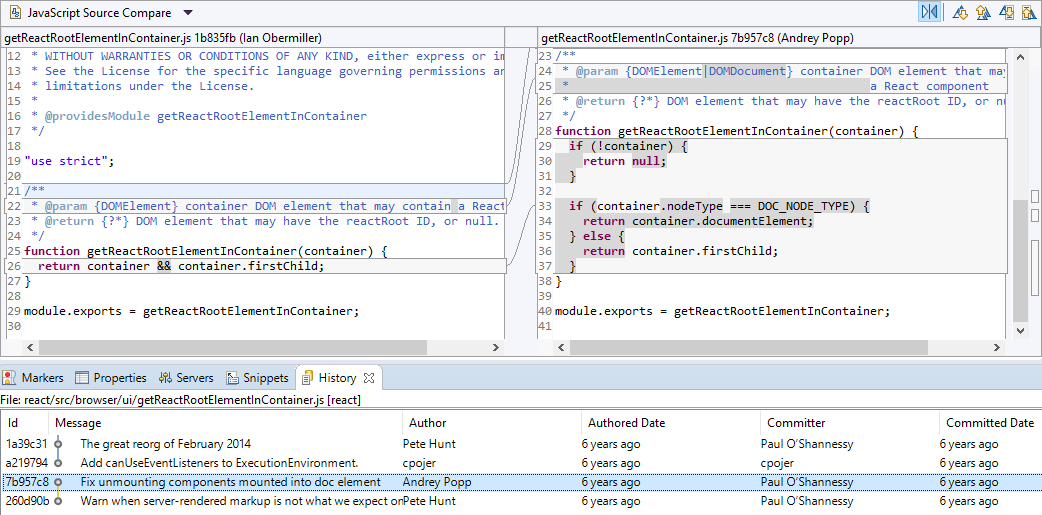
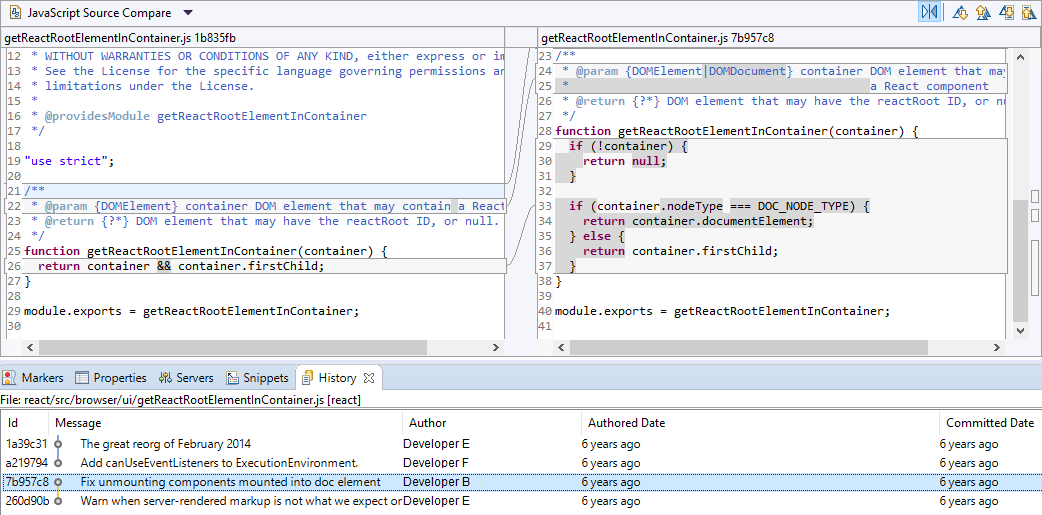
Correções das revisões.

diff --git a/theses-ch5.tex b/theses-ch5.tex
@@ -1,9 +1,9 @@
 \chapter{Practical Applications of Refactoring Detection}
 \label{ChPracticalApplications}
 
-Throughout this thesis we discussed tools to mine refactorings from version histories and empirical studies that benefit from such techniques. In this chapter we discuss three practical applications of such tools.
+Throughout this thesis we discussed tools to mine refactorings from version histories and empirical studies that benefit from such techniques. In this chapter, we discuss three practical applications of such tools.
 We do not intend to thoroughly discuss all possible applications, but rather to exemplify that some relevant problems faced by development teams can be tackled with the help of such tools.
-Particularly, RefDiff's multi-language design is an important advantage for the practical applications described below, as software projects are developed using different programming languages.
+Particularly, RefDiff's multi-language design is an important advantage for the practical applications described in this chapter, as software projects are developed using different programming languages.
 
 
 \section{Refactoring-aware Diff}
@@ -18,18 +18,26 @@ increases the odds that your change will collide with someone
 else's change.}}\margin
 
 In fact, version control systems are usually sensitive to rename and move refactoring,
-which makes it hard for developers to understand code changes in some scenarios. 
-As a concrete example, consider the code changes presented in Figure~\ref{FigRwDiff1}, which are taken from the \url{intellij-community} repository. In this figure, we present the code diff between two changed files. In the first one, \texttt{RunContentManagerImpl.java}, a large code block was removed, whilst in the second file (\texttt{ExecutionUtil.java}) a large code block was added. With a thoroughly analysis, we can note the the code removed from \texttt{RunContentManagerImpl.java} was actually moved to \texttt{ExecutionUtil.java}, i.e, the method \texttt{getLiveIndicator} was moved.
-However this is not immediately obvious to a developer reviewing these changes, specially considering that there might be many other changed files in the commit. Moreover, although one can identify with some effort that the method \texttt{getLiveIndicator} has been moved, it will be much more difficult to identify small changes made to its body in this visualization.
+which makes it hard for developers to understand code changes, specially when refactorings are applied interleaved with other modifications in the system.
+
 
 %intellij-community ce5f9ff
-\begin{figure}[htbp]
+\begin{figure}[htpb]
 \centering
 \includegraphics[width=\linewidth]{img/c1.png}
 \caption{Typical diff visualization of a code change containing a moved method}
 \label{FigRwDiff1}
 \end{figure}
 
+As a concrete example, consider the code changes presented in Figure~\ref{FigRwDiff1}, which are taken from the \url{intellij-community} repository. In this figure, we present the code diff between two changed files. In the first one, \texttt{RunContentManagerImpl.java}, a large code block was removed, whilst in the second file (\texttt{ExecutionUtil.java}) a large code block was added. With a thoroughly analysis, we can note that the code removed from \texttt{RunContentManagerImpl.java} was actually moved to \texttt{ExecutionUtil.java}, i.e., the method \texttt{getLiveIndicator} was moved.
+However, this is not immediately obvious to a developer reviewing these changes, specially considering that there might be many other changed files in the commit. Moreover, although one can identify with some effort that the method \texttt{getLiveIndicator} has been moved, it will be much more difficult to identify small changes made to its body in this visualization.
+
+\begin{figure}[bp]
+\centering
+\includegraphics[width=\linewidth]{img/c2.png}
+\caption{Diff visualization focused on the moved method}
+\label{FigRwDiff2}
+\end{figure}
 
 In contrast, consider the diff visualization presented in Figure~\ref{FigRwDiff2}. In this case, the diff is focused in the method that was moved, \texttt{getLiveIndicator}, before and after the change. We can clearly see that some changes have been made to the body of \texttt{getLiveIndicator}. Specifically, the annotations \texttt{@Nullable} and \texttt{@SuppressWarnings} were introduced, a new local variable \texttt{iSize} was declared, and the expression passed as the first argument to the \texttt{Ellipse2D.Double} constructor was changed.
 All these changes are very hard to note in a traditional diff visualization, such as the one from Figure~\ref{FigRwDiff1}, but are easily discernible when we present the moved method compared with its counterpart.
@@ -37,48 +45,43 @@ Other refactoring types might benefit from such idea as well.
 As a second example, it would also be convenient to highlight the differences between an extracted method and its originating code. This way, it would become easier to identify new statements added.
 A similar reasoning can be applied to Move Class, Inline Method, and other refactoring types.
 
-\begin{figure}[htbp]
-\centering
-\includegraphics[width=\linewidth]{img/c2.png}
-\caption{Diff visualization focused on the moved method}
-\label{FigRwDiff2}
-\end{figure}
 
-Thus, we can improve diff visualization using the information about the refactorings applied in a commit.
-We expect that such refactoring-aware diff visualization solution would improve developers' ability to discern and understand code changes in the presence of refactorings, enabling them to concentrate on changes of behavior rather than on code modifications resulting from refactorings.
+
+Thus, we can improve diff visualization using the information about the refactorings detected in commits, using a tool such as RefDiff.
+We expect that such refactoring-aware diff visualization solution would improve developers' ability to discern and understand code changes in the presence of refactorings, enabling them to concentrate on behavioral changes rather than on code modifications resulting from refactorings.
 
 
 \section{Tracking changes of a code element}
 \label{SecAppTrackChanges}
 
-Although refactoring is very important to maintain a software system, it can make it harder to track code changes in the history, specially in the method/function level.
+Although refactoring is very important to maintain a software system, it can make it harder to track code changes in the history, specially at the method/function level.
 % https://github.com/facebook/react/commit/63aa7259b9f48886af545afcc06c29acf225b05f
 For example, consider the \texttt{getReactRootElementInContainer} function from React project, depicted in Figure~\ref{FigGitBlameReact}.
-\begin{figure}[htbp]
+\begin{figure}[b]
 \centering
 \includegraphics[width=\linewidth]{img/git-blame-react.png}
-\caption{\textit{git-blame} visualization of the \texttt{ReactMount.js} file from React project, showing that function \texttt{getReactRootElementInContainer} was last modified by Mert Kahyao\u{g}lu}
+\caption{\textit{git-blame} visualization of the \texttt{ReactMount.js} file from React project, showing that function \texttt{getReactRootElementInContainer} was last modified by Developer~A}
 \label{FigGitBlameReact}
 \end{figure}
-Suppose one is investigating the history of that function to find out who introduced the conditional statement in lines 85--89. Developers typically use the \textit{git-blame} tool for such tasks, as it shows what revision and author last modified each line of code of a file. However, although the \textit{git-blame} output shows that Mert Kahyao\u{g}lu was the last developer that modified the lines of code within \texttt{getReactRootElementInContainer}, this information may mislead one to think that he is the author of the function.
-In fact, a deeper analysis of the history reveals that Mert Kahyao\u{g}lu actually moved the function from file \texttt{getReactRootElementInContainer.js} to \texttt{ReactMount.js}.
-Thus, to find the actual author of those lines of code, one should inspect the history of changes of the original file of the function. Figure~\ref{FigGitBlameReactActualAuthor} shows that the conditional in lines 85--89 was actually introduced by Andrey Popp.
+Suppose one is investigating the history of that function to find out who introduced the conditional statement in lines 85--89. Developers typically use the \textit{git-blame} tool for such tasks, as it shows what revision and author last modified each line of code of a file. However, although the \textit{git-blame} output shows that Developer~A was the last developer who modified the lines of code within \texttt{getReactRootElementInContainer}, this information may mislead one to think that he is the author of the function.
+In fact, a deeper analysis of the history reveals that Developer~A actually moved the function from file \texttt{getReactRootElementInContainer.js} to \texttt{ReactMount.js}.
+Thus, to find the actual author of those lines of code, one should inspect the history of changes of the original file of the function. Figure~\ref{FigGitBlameReactActualAuthor} shows that the conditional in lines 85--89 was actually introduced by Developer~B.
 
 
 \begin{figure}[htbp]
 \centering
 \includegraphics[width=\linewidth]{img/git-blame-react-actual-author.png}
-\caption{Diff visualization of the commit in witch the conditional inside function \texttt{getReactRootElementInContainer} was introduced, showing that the actual author is Andrey Popp}
+\caption{Diff visualization of the commit in witch the conditional inside function \texttt{getReactRootElementInContainer} was introduced, showing that the actual author is Developer~B}
 \label{FigGitBlameReactActualAuthor}
 \end{figure}
 
 In summary, in the example above, the \textit{Move Function} refactoring split the history of \texttt{getReactRootElementInContainer}, making it harder to trace back the author of each line of code.
 The frequency in which such situations occur makes this problem even more important. \cite{icse2018} studied the extent in which MSR approaches that relies on tracking
 the changes along all versions of each individual methods (or classes) are affected by refactorings, i.e., a method rename or move can be misinterpreted as the disappearance of a method and the appearance of a brand new one.
-The authors found that between 10 and 21\% of method-level changes and 2 and 15\% of class-level changes may introduce a discontinuity in their histories.
+The authors found that between 10\% and 21\% of method-level changes and 2\% and 15\% of class-level changes may introduce a discontinuity in their histories.
 Moreover, 25\% of the code elements have at least one discontinuity in their histories.
 
-For these reasons, this problem is a potential application for refactoring detection techniques. If we know the refactorings applied in the system, we can keep track of all moves/renames applied to each code element and reconstruct its full history.
+For these reasons, this problem is a potential application of refactoring detection techniques. If we know the refactorings applied in the system, we can keep track of all moves/renames applied to each code element and reconstruct its full history.
 Moreover, this would enable us to provide an improved \textit{git-blame} that shows the last modification of each line of code but is not susceptible to code movement.
 
 
@@ -90,14 +93,14 @@ Another challenge developers face when refactoring, also reported by \cite{kim-t
 In software projects, usually several developers work in parallel fixing bugs and adding features to the system.
 Thus, the different changes introduced by each developer should be integrated together in the same code base, in a process called as merging code.
 In many cases, merging can be done automatically by version control systems, which provide algorithms for such task.
-However, when different changes are made to the same lines of code, automatic algorithms report a merge conflict, and merge must be done manually.
-High-level refactoring operations amplify the odds that merge conflict occurs, because they usually involves movement of large chunks of code.
+However, when different changes are made to the same lines of code, these algorithms report a conflict, and merge must be done manually.
+High-level refactoring operations amplify the odds that merge conflict occurs, because they usually involve movement of large chunks of code.
 In fact, a recent study on the relationship between refactoring and merge conflicts shows that refactoring operations are involved in at least 22\% of merge conflicts~\citep{mahmoudi2019refactorings}.
 
 \begin{figure}[htbp]
 \centering
 \includegraphics[width=\linewidth]{img/merge-ex-diff1.png}
-\caption{Hypotetical change made by fist developer: Test if \texttt{length} is zero}
+\caption{Hypotetical change made by first developer: Test if \texttt{length} is zero}
 \label{FigMergeExDiff1}
 \end{figure}
 
@@ -124,7 +127,11 @@ Thus, large-scale refactorings have the potential to make merging changes extrem
 
 However, we can improve merging algorithms if we know the refactorings applied to the code.
 For example, \cite{dig2008effective} proposed a refactoring-aware version control system that is able to resolve merge conflicts caused by refactorings using the following strategy: it identifies the refactorings applied between revisions, undo the refactorings, apply regular textual merge algorithms, and finally apply the refactorings again.
-\cite{shen2019intellimerge} also propose a refactoring-aware merging technique for the same purpose. Their tool, called IntelliMerge, relies on a graph-based representation of the source code. First, their algorithm transforms the source code of each revision involved in the merge process into program element graphs (PEGs).
+As another example, \cite{cavalcanti2017evaluating} propose an improvement in semistructured merge algorithms that relies on the Levenshtein distance to find renamed code elements. This way, it avoids reporting merge conflicts when a developer renames a method whose body is changed by other developer in parallel.
+\cite{shen2019intellimerge} also propose a refactoring-aware merging technique based on a semistructured representation of the source code.
+Their tool, called IntelliMerge, first transforms the source code of each revision involved in the merge process into program element graphs (PEGs).
 Then, nodes from these graphs are matched with their base version, i.e., in this step refactorings such as \emph{Move} and \emph{Rename} are found.
 Finally, textual merge is applied individually for each node, considering the matchings found in the previous step.
-Both aforementioned tools depend on finding refactorings applied between revision. Thus, they are a direct application of refactoring detection approaches such as RefDiff.
+The aforementioned tools depend on finding refactorings applied between revision. Thus, they are another direct application of refactoring detection approaches such as RefDiff.
+
+

diff --git a/theses-ch1.tex b/theses-ch1.tex
@@ -34,10 +34,10 @@ Although existing studies interview professional software developers asking the 
 In fact, empirical studies that investigates actual refactorings applied in source code are challenging, because refactoring information is not readily available.
 For example, suppose that we intend to study the correlation between refactorings and defects on a software component. 
 Many software teams document fixed bugs in issue tracking systems, but we could only correlate them with refactorings if we have a history of refactoring activity in the defective code.
-Such information is usually not documented, and would need to be inferred from the code changes.
+Such information is usually not documented, and would have to be inferred from the code changes.
 If we incorrectly classify code changes as refactoring, or if we fail to find existing refactorings, the conclusions we drawn might be incorrect.
 In summary, the feasibility of such studies depends on some technique to identify refactoring activity, and the validity of their findings depends on how reliable such technique is.
-Thus, refactoring information is valuable to study software evolution.
+Thus, \emph{refactoring information is valuable to study software evolution}.
 
 Unfortunately, obtaining refactoring information from version histories is a non-trivial task, for three main reasons:
 \begin{enumerate}
@@ -70,12 +70,13 @@ Moreover, such approaches have great potential for practical application in code
 \section{Proposed Thesis}
 \label{ProposedThesis}
 
-In this thesis, we developed four main studies, which can be grouped in two research lines.
+In this thesis, we develop two research lines: empirical studies on refactoring practice and a tool to mine refactorings from version histories.
+%In this thesis, we developed empirical studies on refactoring and proposed a tool. Our work can be an be grouped in two research lines.
 In the first research line, we investigate an overarching question: \emph{Why developers refactor}.
 To answer that question, we performed two empirical studies.
 
 In \textbf{Study~1}, we investigated the relationship between Extract Method refactoring and code reuse.
-Although Extract Method is usually associated with code smells such as \emph{Long method}~\citep{Fowler:1999}, empirical studies suggests that it serves multiple porposes~\citep{tsantalis_empiricalstudy}.
+Although Extract Method is usually associated with code smells such as \emph{Long method}~\citep{Fowler:1999}, empirical studies suggest that it serves multiple porposes~\citep{tsantalis_empiricalstudy}.
 In particular, we suspected that code reuse could be one important motivation for Extract Method. Thus, we proposed three research questions: (i) \emph{How often is Extract Method motivated by code reuse}; (ii) \emph{How often is Extract Method motivated by removing duplicate code}; and (iii) \emph{How often does Extract Method favors code reuse}.
 To answer these questions, we mined Extract Method refactorings from 10 open source Java repositories using an adapted version of Refactoring Miner, an existing refactoring detection tool~\citep{tsantalis_empiricalstudy}, and also gathered information of method invocations along the entire history of the studies projects.
 As result, we found that in 56.9\% of the cases Extract Method is motivated by code reuse. Additionally, 7.9\% of the cases are motivated by removing duplication, and 4.8\% of the cases are not motivated by code reuse, but enables reuse in future modifications of the system.
@@ -87,26 +88,26 @@ We developed an automated workflow based on Refactoring Miner that was capable o
 By applying thematic analysis on the collected responses, we compiled a catalogue of 44 distinct motivations for the 12 studies refactoring types.
 In summary, we found that refactoring effort is mainly driven by changes in the requirements and much less by code smells.
 In particular, we found that Extract Method is the most versatile refactoring operation, serving 11 different purposes.
-Additionally, we also gathered insightful information about the usage of refactoring tools. For examples, we found evidence that the IDE used by the developers affects the adoption of automated refactoring tools.
+Additionally, we also gathered insightful information about the usage of refactoring tools. For example, we found evidence that the IDE used by the developers affects the adoption of automated refactoring tools.
 
 
 After our experience with the aforementioned studies, we felt the need for improving refactoring detection approaches.
 For example, in Study~2, we manually evaluated each refactoring identified by our tool set, and found out that 37\% of them were false positives (i.e., we achieved 63\% of precision).
-For that reason, we initiated a second line of research, focused on improving the state-of-the-art on refactoring detection approaches.
+For that reason, we initiated a second line of research, focusing on improving the state-of-the-art on refactoring detection approaches.
 %To answer that question, we performed two empirical studies.
 
-In \textbf{Study~3}, we introduced RefDiff, a novel refactoring detection approach, whose main goal was to improve improve precision over existing tools.
+First, we introduced \textbf{RefDiff}, a novel refactoring detection approach, whose main goal was to improve improve precision over existing tools.
 Our approach employs a combination of heuristics based on static analysis and code
 similarity to detect 13 well-known refactoring types.
 One of its distinguishing features is using an adaptation of the classical TF-IDF similarity measure from information retrieval to compute code similarity.
-We evaluated precision and recall of our tool using an oracle of known refactorings applied by students, and compared it three existing approaches, namely Refactoring Miner~\citep{tsantalis_empiricalstudy}, Refactoring Crawler~\citep{dig2006automated}, and Ref-Finder~\citep{Kim:2010:RefFinder}.
+We evaluated precision and recall of our tool using an oracle of known refactorings applied by students, and compared it with three existing approaches, namely Refactoring Miner~\citep{tsantalis_empiricalstudy}, Refactoring Crawler~\citep{dig2006automated}, and Ref-Finder~\citep{Kim:2010:RefFinder}.
 As result, our approach achieved 100\% of precision and 88\% of recall, surpassing the three tools subjected to the comparison.
 
-Later, in \textbf{Study~4}, we proposed an improved version of our tool, named as RefDiff 2.0.
-Besides introducing improvements to our detection heuristics, we redesigned RefDiff to support multiple programming languages. Our revised refactoring detection algorithm relies on the Code Structure Tree (CST), a simple yet powerful representation of the source code that abstracts away the specificities of particular programming languages.
+Later, after further study, we proposed an improved version of our tool, named as \textbf{RefDiff~2.0}.
+Besides introducing improvements to our detection heuristics, we redesigned our tool to support multiple programming languages. Our revised refactoring detection algorithm relies on the Code Structure Tree (CST), a simple yet powerful representation of the source code that abstracts away the specificities of particular programming languages.
 Along with the core algorithm, we provide plugins for three programming languages: Java, JavaScript, and C.
 In this study, we also performed a large-scale evaluation of our tool using an  oracle of 3,248 real refactorings, applied across 538 commits from 185 open source Java repositories.
-This instance, we compared our tool with RMiner, which is an evolution of Refactoring Miner~\citep{tsantalis2018rminer} and the current state-of-the-art in Java refactoring detection.
+In this extended evaluation, we compared our tool with RMiner, which is an evolution of Refactoring Miner~\citep{tsantalis2018rminer} and the current state-of-the-art in Java refactoring detection.
 As result, RefDiff 2.0 achieves 96.4\% of precision and 80.4\% of recall.
 RefDiff's precision and recall is on par with RMiner (98.8\% of precision and 81.3\% of recall), which is a key achievement because our approach is not specialized in a single language.
 Moreover, our  evaluation  in  JavasScript  and  C  also showed promising results. RefDiff’s precision and recall are respectively 91\% and 88\% for JavaScript, and 88\% and 91\% for C.
@@ -131,14 +132,15 @@ We organized the remainder of this work as follows:
 
 \noindent\textbf{Chapter~\ref{ChFse}: An Empirical Study on Refactoring Motivations.} In this chapter we present \textbf{Study 2}, which investigates the motivations behind refactorings applied in 124 Java projects hosted on GitHub. This chapter consists of the following publication:
 \\[6pt]
-\noindent Silva, D., Tsantalis, N., and Valente, M. T. (2016) Why we refactor? confessions of GitHub contributors. In \emph{24th International Symposium on the Foundations of Software Engineering (FSE)}, pages 858--870.
+\noindent Silva, D., Tsantalis, N., and Valente, M. T. (2016) Why we refactor? confessions of GitHub contributors. In \emph{24th International Symposium on the Foundations of Software Engineering (FSE)}, pages 858--870 (Distinguished paper award).
 \\[6pt]
 
-\noindent\textbf{Chapter~\ref{ChTse}: Detecting Refactoring in Version Histories.} In this chapter, we present \textbf{Study 4}, which describes RefDiff, an approach to detect refactoring in version histories. Besides, we also present an evaluation of our tool in Java, JavaScript, and C projects. This chapter consists of the following study, currently under review:
+\noindent\textbf{Chapter~\ref{ChTse}: Detecting Refactoring in Version Histories.} In this chapter, we present \textbf{Study 4}, which describes RefDiff, an approach to detect refactoring in version histories. Besides, we also present an evaluation of our tool in Java, JavaScript, and C projects. This chapter consists of the following manuscript, currently under review:
 \\[6pt]
-\noindent Silva, D., Silva J. P., Santos, G., Terra, R., and Valente, M. T. (2019) RefDiff 2.0: A Multi-language RefactoringDetection Tool. Under review for \emph{IEEE Transactions on Software Engineering (TSE)}.
+\noindent Silva, D., Silva J. P., Santos, G., Terra, R., and Valente, M. T. (2019) RefDiff 2.0: A Multi-language RefactoringDetection Tool. Under review in a journal.
+%for \emph{IEEE Transactions on Software Engineering (TSE)}
 \\[6pt]
-It is worth noting that this chapter is also based on the work from \textbf{Study 3} (superseded by Study~4), which corresponds to the following publication:
+It is worth noting that this chapter is also based on the following publication,  in which we initially proposed \textbf{RefDiff} (superseded by \textbf{RefDiff 2.0}):
 \\[6pt]
 \noindent Silva, D. and Valente, M. T. (2017) RefDiff: Detecting Refactorings in Version Histories. In \emph{14th International Conference on Mining Software Repositories (MSR)}, pages 1--11.
 \\[6pt]
@@ -146,6 +148,6 @@ It is worth noting that this chapter is also based on the work from \textbf{Stud
 \noindent\textbf{Chapter~\ref{ChPracticalApplications}: Practical Applications of Refactoring Detection.} In this chapter, we describe practical problems that could benefit from refactoring detection approaches, such as RefDiff.
 \\[6pt]
 
-\noindent\textbf{Chapter~\ref{ChConclusion}: Conclusion.} This final chapter concludes the thesis and gives suggestions for future research.
+\noindent\textbf{Chapter~\ref{ChConclusion}: Conclusion.} This final chapter concludes the thesis, presents our contributions, and gives suggestions for future research.
 
 %\end{description}

diff --git a/theses-ch6.tex b/theses-ch6.tex
@@ -2,21 +2,38 @@
 \chapter{Conclusion}
 \label{ChConclusion}
 
+This chapter concludes the thesis by listing the main contributions of this work. Next, we present directions for future research.
+
+
 
 \section{Contributions}
 \label{SecContributions}
 
-The contributions achieved so far can be summarized as follows:
 \begin{enumerate}
-\item \textbf{A large scale study of the motivations behind refactoring}.
-We employed an adaptation of an existing refactoring detection tool to monitor refactoring activity on \totalProjects Java projects hosted on GitHub. Whenever we found recent refactorings, we asked the developers who applied them to explain the reasons behind their decision to refactor the code.
-By applying thematic analysis on the collected responses,
-we compiled a catalogue of \totalMotivationThemes distinct motivations for \refactoringTypes well-known refactoring types.
-Moreover, we also investigated the frequency of each refactoring type, the usage of refactoring tools, and how the IDE affects refactoring tools usage.
 
-\item \textbf{A new approach to mine refactoring in version histories}.
-Based on the experience gained in the first study, we propose RefDiff, a novel automated approach that identifies refactorings performed between two code revisions in a git repository. 
-RefDiff employs a combination of heuristics based on static analysis and code similarity to detect 13 well-known refactoring types.
-In an evaluation using an oracle of 448 known refactoring operations, distributed across seven Java projects, our approach achieved precision of 100\% and recall of 88\%.
-Moreover, our evaluation suggests that RefDiff has superior precision and recall than existing state-of-the-art approaches.
+\item In Study~1, we found that code reuse is one of the main motivations for applying Extract Method refactoring (56.9\% of the cases).
+This was an important finding for two main reasons.
+First, the relationship between Extract Method and code reuse, using actual refactorings mined from code repositories, had not been studied before.
+Second, although refactoring literature emphasizes code smells as motivations for refactorings, such finding reveals that it is incorrect to assume that they are the sole reason to refactor source code.
+
+\item In Study~2, we compiled a catalogue of 44 distinct motivations for 12 well-known refactoring types, based on the actual explanations of developers on specific refactorings they have recently applied.
+Some of the motivations we found are the resolution of well-known code smells, but many others are related to code evolution, facilitating the implementation of a feature or a bug fix.
+We also investigated the frequency of each refactoring type and the usage of refactoring tools, confirming previous findings, and how the IDE affects refactoring tools usage.
+The findings of this study increased our knowledge about refactoring practice and offered important insights to researchers, practitioners, and refactoring tools builders.
+
+\item We proposed RefDiff, a novel refactoring detection approach suitable to mine refactoring in version histories in large scale with high precision and recall, with the advantage of supporting multiple programming languages.
+When initially proposed, our approach improved precision and recall over existing approaches.
+Later, we extended RefDiff introducing a language agnostic core algorithm and improved its precision to be on par with RMiner, the current state-of-the-art in Java refactoring detection.
+Taking advantage of RefDiff's extensible architecture, we implemented plugins for three programming languages (Java, JavaScript and C), and evaluated our approach in each of them.
+
+
+\item We contributed to the creation of the largest refactoring dataset to date, which keeps record of 3,248 refactorings mined from 538 commits of 185 Java repositories.
+Such dataset initially contained the data we collected in Study~2, and was later extended by \cite{tsantalis2018rminer}, while evaluating RMiner. Finally, in our evaluation of RefDiff, we extended it once again with additional refactorings.
+This dataset serves as a reliable oracle that can be used to evaluate precision and recall of refactoring detection approaches, facilitating future research.
+
 \end{enumerate}
+
+
+\section{Future Work}
+\label{SecFutureWork}
+
